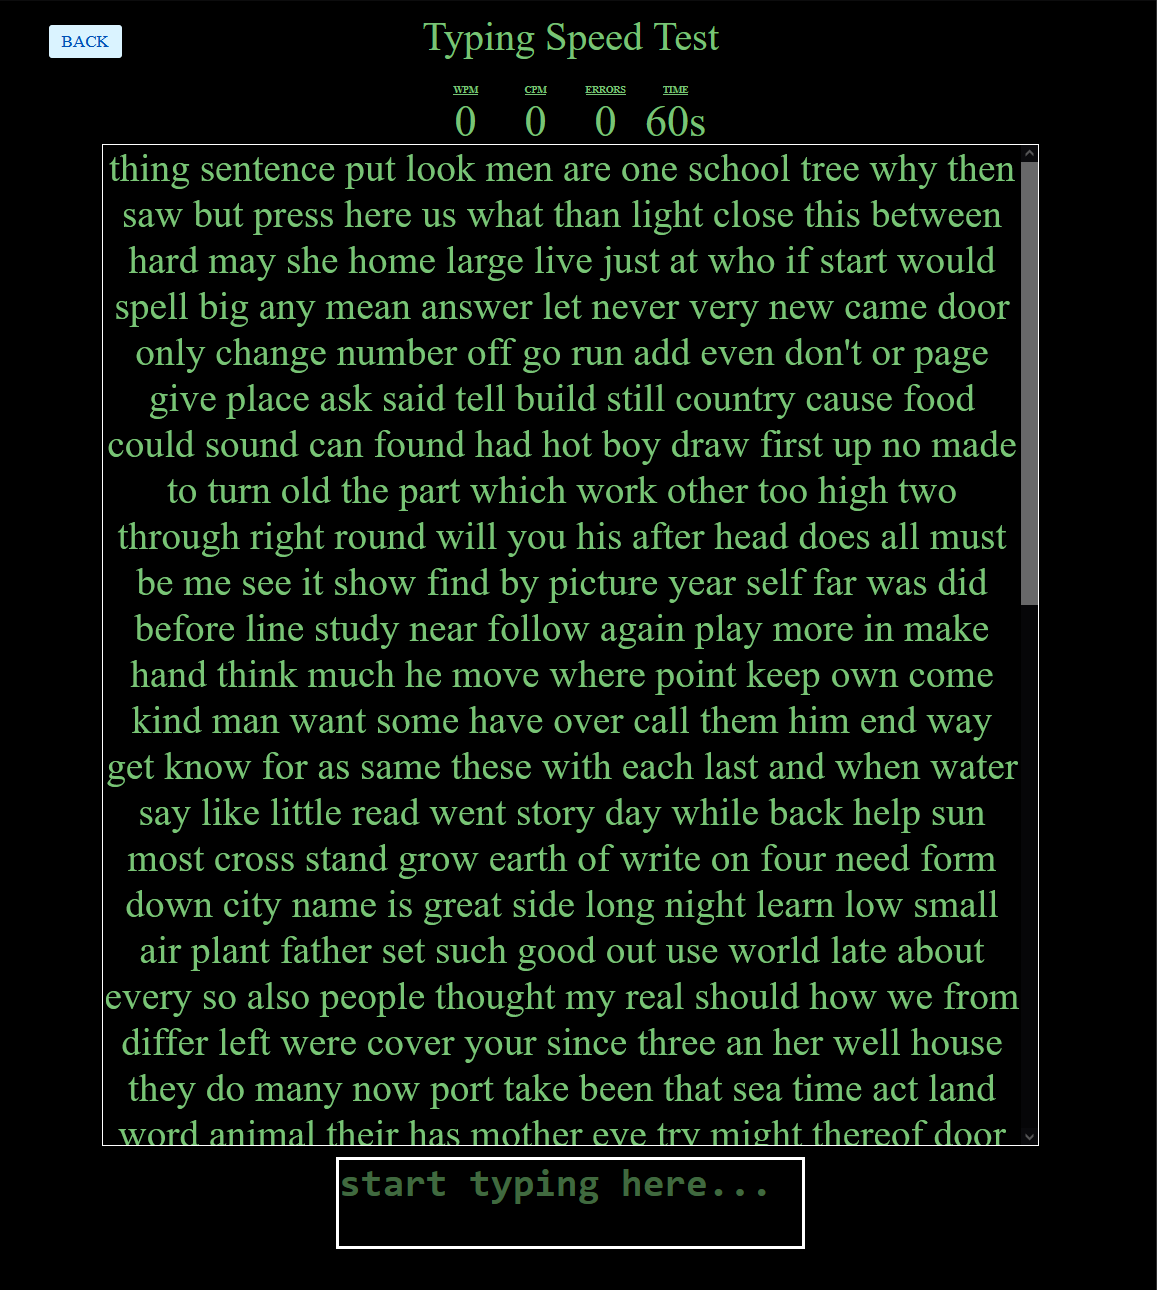
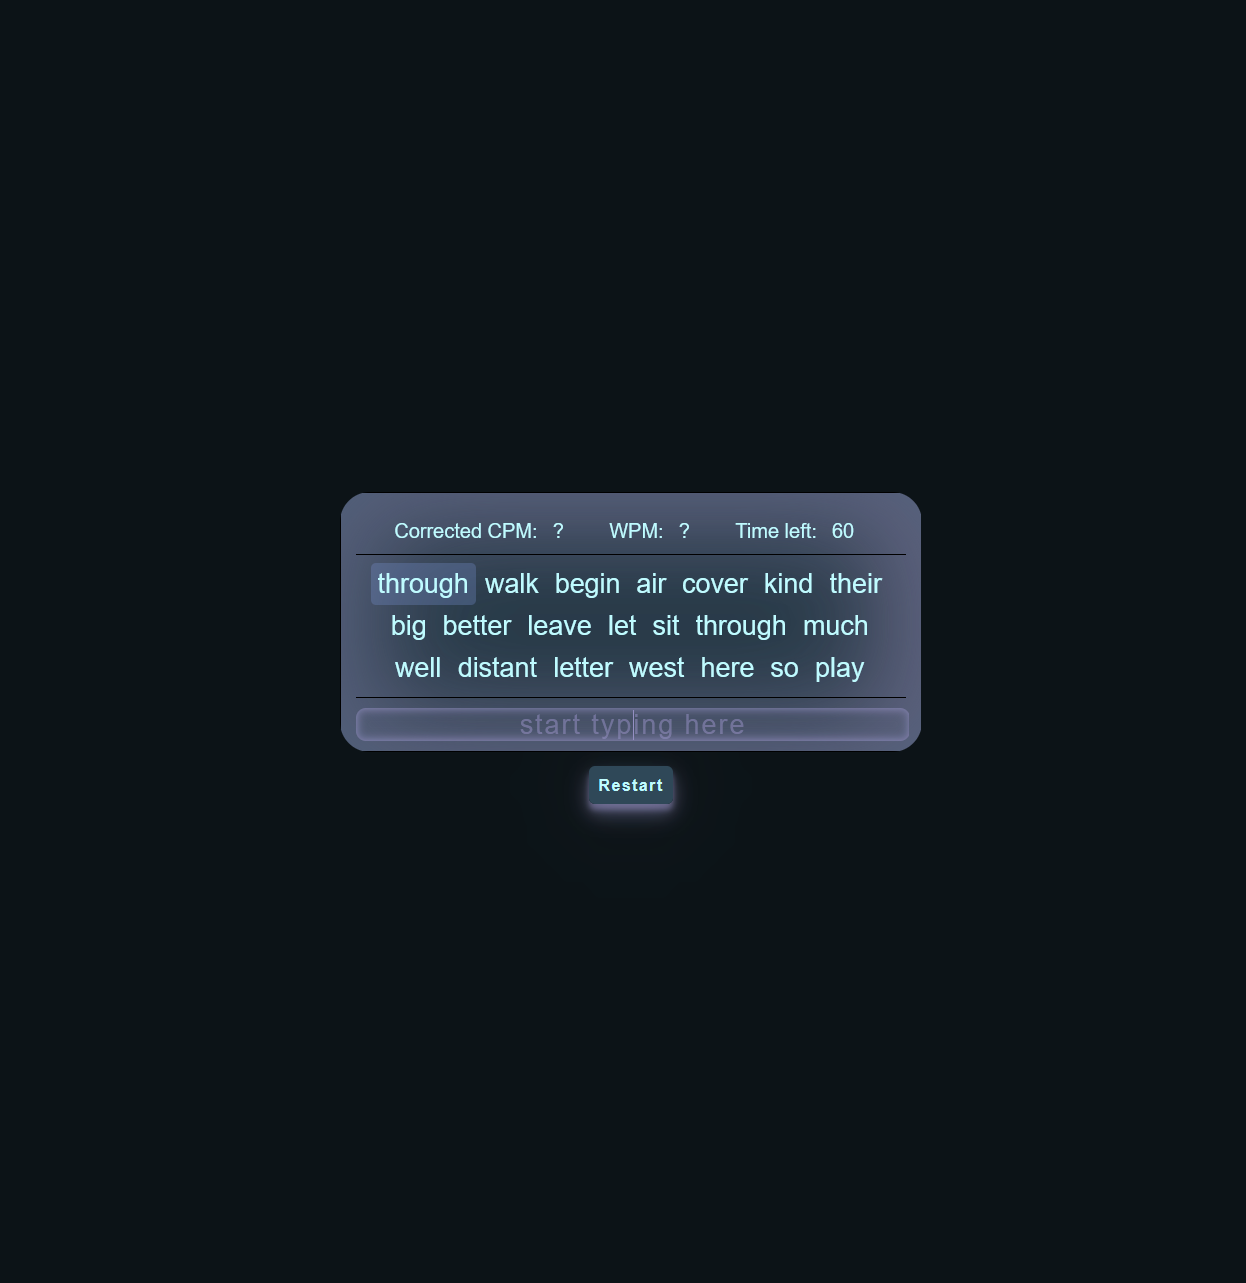
added a project

Changed region(s): [[0.0933, 0.0, 0.9023, 0.9353], [0.9957, 0.0, 1.0, 1.0], [0.0311, 0.0, 0.1245, 0.0624]]

diff --git a/index.html b/index.html
@@ -215,6 +215,32 @@
             </p>
             <a class="btn work__project-btn" href="https://github.com/lhlamar/wordle_solver" target="_blank">Link</a>
           </div>
+          <!-- Project 3 -->
+          <h3 class="work__project-title">Typing Test</h3>
+          <div class="work__img-wrapper work__image3">
+            <img
+              class="lazy loading"
+              src="https://via.placeholder.com/900"
+              data-src="/typing-test.png"
+              alt="typing test website"
+            />
+          </div>
+          <div class="work__project work__content3">
+            <h3 class="work__project-subtitle">Typing Test</h3>
+            <p class="work__project-description1">
+              Re-skin of AOEU typing test <a href="https://typing-speed-test.aoeu.eu/">https://typing-speed-test.aoeu.eu/</a>
+            </p>
+            <p class="work__project-description2">
+              As someone who types all the time, knowing how fast I can type
+              is rewarding. I also enjoy sharing
+              my scores with my peers. I love the AOEU typing speed Test
+              but have never been a fan of the way it looks. So I reskined it, stripped
+              some functionalities I didn't want, and changed the way one or two things
+              worked.
+            </p>
+            <a class="btn work__project-btn" href="https://typing-test-pied.vercel.app/" target="_blank">Test Your Speed</a>
+          </div>
+          <!-- end of projects -->
         </div>
       </section>
       
